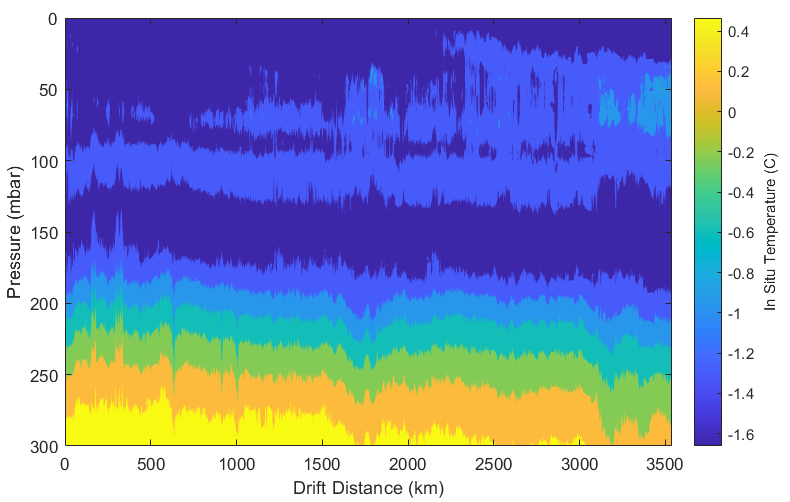
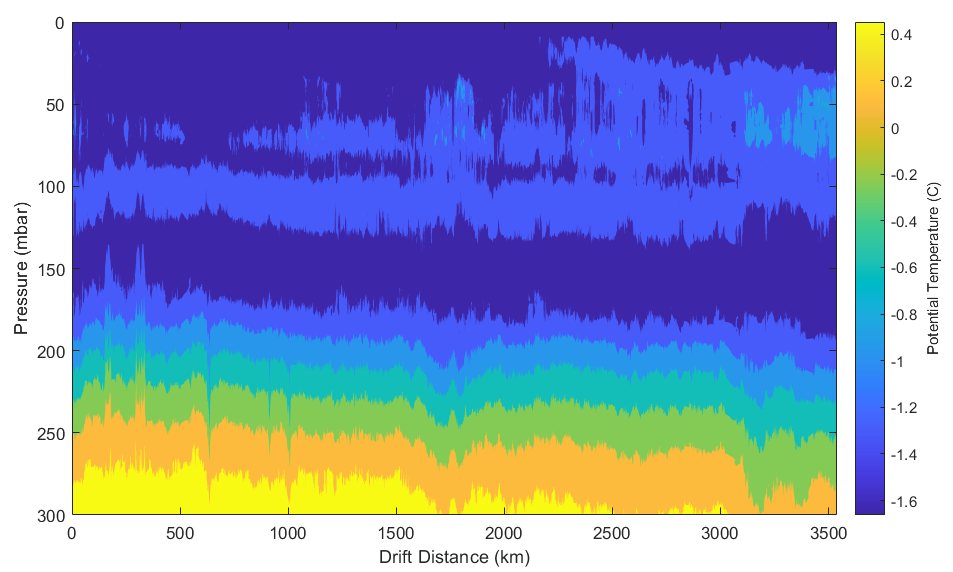
updates example plots and scripts

Changed region(s): [[0.0, 0.0299, 1.0, 0.9861]]

diff --git a/examples/itp1_section.m b/examples/itp1_section.m
@@ -33,9 +33,17 @@ for i = 1:length(profiles)
     I = profiles(i).pressure >= PRESSURE_RANGE(1) & ...
         profiles(i).pressure < PRESSURE_RANGE(2);
     depth_vec = [depth_vec, profiles(i).pressure(I)];
-    temp_vec = [temp_vec, profiles(i).temperature(I)];
+    ptemp = profiles(i).potential_temperature(0);  % reference of 0 dbar
+    temp_vec = [temp_vec, ptemp(I)];
     dist_vec = [dist_vec, repmat(cumulative_distance(i), 1, sum(I))];
 end
+
+% get rid of any NaN values in ptemp
+notNan = ~isnan(temp_vec);
+depth_vec = depth_vec(notNan); 
+temp_vec = temp_vec(notNan); 
+dist_vec = dist_vec(notNan); 
+
 tempInterpolant = scatteredInterpolant(dist_vec', depth_vec', temp_vec');
 temp_grid = tempInterpolant(dist_grid, pres_grid);
 
@@ -46,4 +54,4 @@ axis ij
 h = colorbar;
 xlabel('Drift Distance (km)');
 ylabel('Pressure (mbar)');
-ylabel(h, 'In Situ Temperature (C)')
+ylabel(h, 'Potential Temperature (C)')

diff --git a/examples/temp_400m.m b/examples/temp_400m.m
@@ -14,7 +14,9 @@ profiles = load_itp(path,...
 
 temp_400 = zeros(length(profiles), 1);
 for i = 1:length(profiles)
-    temp_400(i) = profiles(i).temperature(1);
+    % calculate potential temperature with a reference pressure of 0
+    ptemp = profiles(i).potential_temperature(0);
+    temp_400(i) = ptemp(1);
 end
 
 longitude = [profiles.longitude];
@@ -25,5 +27,5 @@ worldmap([70, 90], [-180, 180]);
 geoshow('landareas.shp', 'FaceColor', [0.5 0.7 0.5])
 scatterm([profiles.latitude], [profiles.longitude], 15, temp_400, 'filled');
 h = colorbar;
-ylabel(h, 'In Situ Temperature (C)')
+ylabel(h, 'Potential Temperature (C)')
 caxis([0.5, 1])

diff --git a/README.md b/README.md
@@ -2,7 +2,7 @@
 The Ice Tethered Profiler (ITP) is an autonomous instrument that vertically profiles the water column under sea ice. The ITP collects measurements of conductivity, temperature, and depth. Data are automatically transmitted back via satellite.  [Learn More](http://www.whoi.edu/itp "Learn More")
 
 ## Motivation
-To date, 119 ITP systems have been deployed, and more than 130000 water profiles have been collected. As these data continue to accumulate, and the number of users working with the data increases, the need has become apparent for a set of tools to access, search for, and manipulate ITP data.
+To date, 119 ITP systems have been deployed, and more than 130000 water profiles have been collected. As these data continue to accumulate, and the number of users working with the data increases, the need has become apparent for a set of tools to search for and access ITP data.
 
 ## Features
   - Easily and rapidly search all available ITP profiles
@@ -12,12 +12,12 @@ To date, 119 ITP systems have been deployed, and more than 130000 water profiles
     - date range
     - pressure range
     - system number
-  - Profiles are returned as a MATLAB structured array
+  - Profiles matching the search criteria will be returned as an array of `Profile` objects. Profile objects have built in methods for calculating many common derived values such as potential temperature and depth.
 
 ## Usage
 #### load\_itp(db\_path, [arguments])
-`load_itp` is the primary function used to retrieve ITP data from the database. It accepts a variety of filtering arguments. **Please pay attention to the order in which the bounds are specified for the various arguments.**
-##### Arguments
+`load_itp` is the primary function used to retrieve ITP data from the database. It accepts a variety of filtering arguments. **Please pay attention to the order in which the bounds are specified for the various arguments.** `load_itp` returns a vector of `Profile` objects.
+##### Search Arguments
 Argument | Description
 :--- | :---
 db_path | A path to the database containing ITP profiles.
@@ -28,11 +28,34 @@ pressure | A two element vector specifying the lowest and highest pressure bound
 system | A vector of ITP system numbers to filter for.
 max\_results | The maximum number of results the `load_itp` function will return without throwing an error. The default value is 10000.
 
+#### Profile
+A `profile` object has the following methods:
+
+**height**()  
+Calculates height from sea pressure (+ up).
+
+**depth**()  
+Calculates depth from sea pressure; simply negative height (+ down).
+
+**potential\_temperature**(*pressure_reference*)  
+Calculates potential temperature from in-situ temperature. You must specify a reference pressure.
+
+**density**()  
+Calculates in-situ density
+
+**conservative\_temperature**()  
+Calculates Conservative Temperature from in-situ temperature
+
+**absolute\_salinity**()  
+Calculates Absolute Salinity from Practical Salinity
 
 ## Examples
 Once you have downloaded the ITP-MATLAB package and added it to your MATLAB path, you need to download the ITP database. See the bottom of this page for instructions on doing both. The .m files for these examples are in the <a href='https://github.com/WHOI-ITP/ITP-MATLAB/tree/master/examples'>examples folder</a>.
 
-### Example - Search the database based on a geographical area and time range, then make a scatter plot of the station locations
+### Example - The basics
+
+
+Search the database based on a geographical area and time range, then make a scatter plot of the station locations
 The following example demonstrates how to retrieve all profiles from 2010 in the region bounded by 70 and 80 degrees North, and 170 to 140 degrees West. 
 
 First specify the path to the database file you downloaded.
@@ -158,14 +181,19 @@ caxis([0.5, 1])
 <img src='https://github.com/WHOI-ITP/ITP-MATLAB/raw/master/resources/temperature_400m.PNG' height='400'/>
 
 ## Installation
+#### Requirements
+ITP-MATLAB depends on a free, 3rd party open-source package called **Mksqlite**. The **TEOS-10 Gibbs Seawater Toolbox** is required for calculating derived values (e.g. density, potential temperature, etc), but it is not strictly required to query the database. However without it, you will be limited to accessing a profile's pressure, in-situ temperature, and practical salinity.
+
 #### Windows users
-  1. Download the latest `ITP-MATLAB` package https://github.com/WHOI-ITP/ITP-MATLAB/archive/master.zip 
+  1. Download the <a href='https://github.com/WHOI-ITP/ITP-MATLAB/archive/master.zip'>latest ITP-MATLAB package</a>. 
   2. Unzip the file. Rename the unzipped folder to `ITP-MATLAB`.
-  3. Download the itp\_**final**\_yyyy\_mm\_dd.zip database, from here: https://www.dropbox.com/sh/5u68j8h5eiamk1x/AABZTJd3Hx2y-GAsoBKyZo01a?dl=0 Unzip it to your desired location, and take note of its path. yyyy\_mm\_dd is the date the database was built.
-  4. In MATLAB, type `pathtool` in the command window. 
-  5. Click the `Add Folder...` button.
-  6. Browse to the ITP-MATLAB folder from step 2 and add the `itp_matlab` and `mksqlite-1.5` sub-folders to the path.
-  7. Click `Save` and close the path window.
+  3. Download the <a href='https://www.dropbox.com/sh/5u68j8h5eiamk1x/AABZTJd3Hx2y-GAsoBKyZo01a?dl=0'>latest ITP database</a>. Unzip it to your desired location, and take note of its path. yyyy\_mm\_dd is the date the database was built.
+  4. Download the <a href='http://www.teos-10.org/software.htm'>TEOS-10 Gibbs Seawater Toolbox</a>.
+  5. In MATLAB, type `pathtool` in the command window. 
+  6. Click the `Add Folder...` button.
+  7. Browse to the ITP-MATLAB folder from step 2 and add the `itp_matlab` and `mksqlite-1.5` folders to the path.
+  8. Click `Add with Subfolders...` and select the `gsw_matlab_v3_06_12` folder.
+  9. Click `Save` and close the path window.
   
 #### Mac Users
 Installation steps are the same, but you must compile mksqlite from source. Find the latest release here: https://github.com/AndreasMartin72/mksqlite/tags Run buildit.m to compile to a MEX-DLL. Unfortunately I don't have a Mac so I'm unable to test this. Please open an issue if you have trouble and I will see if I can help.
